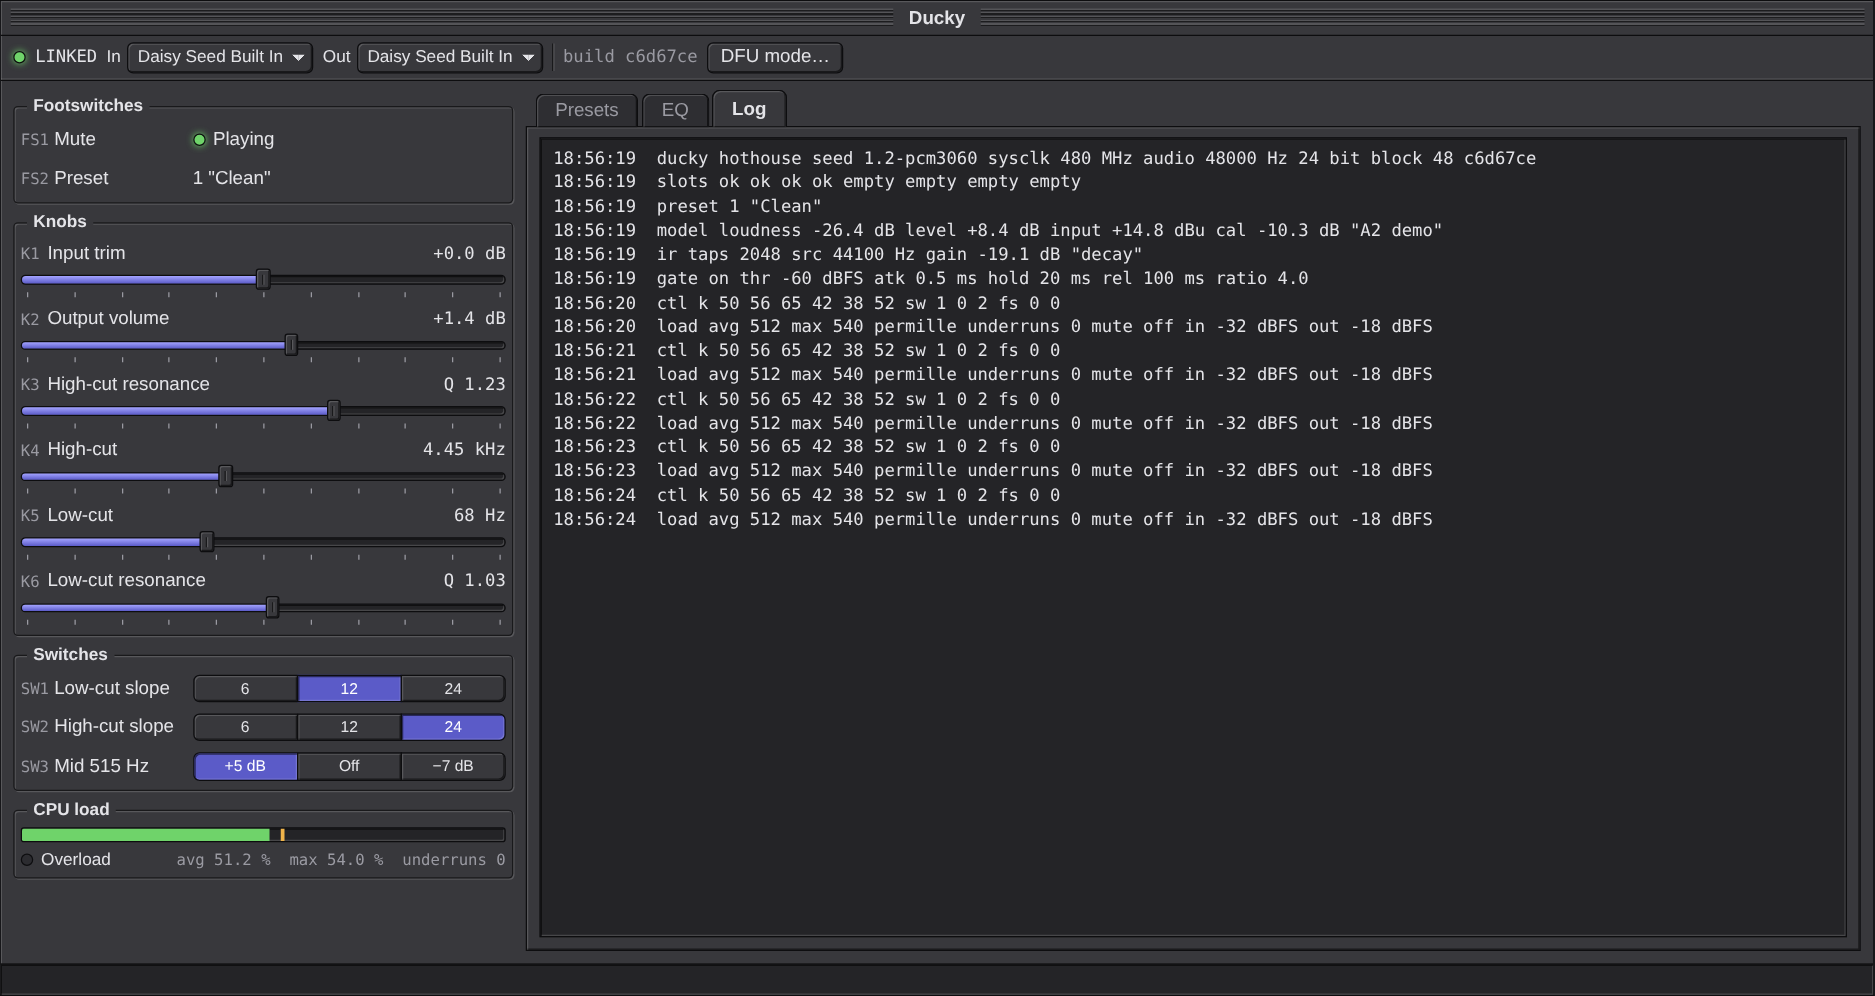
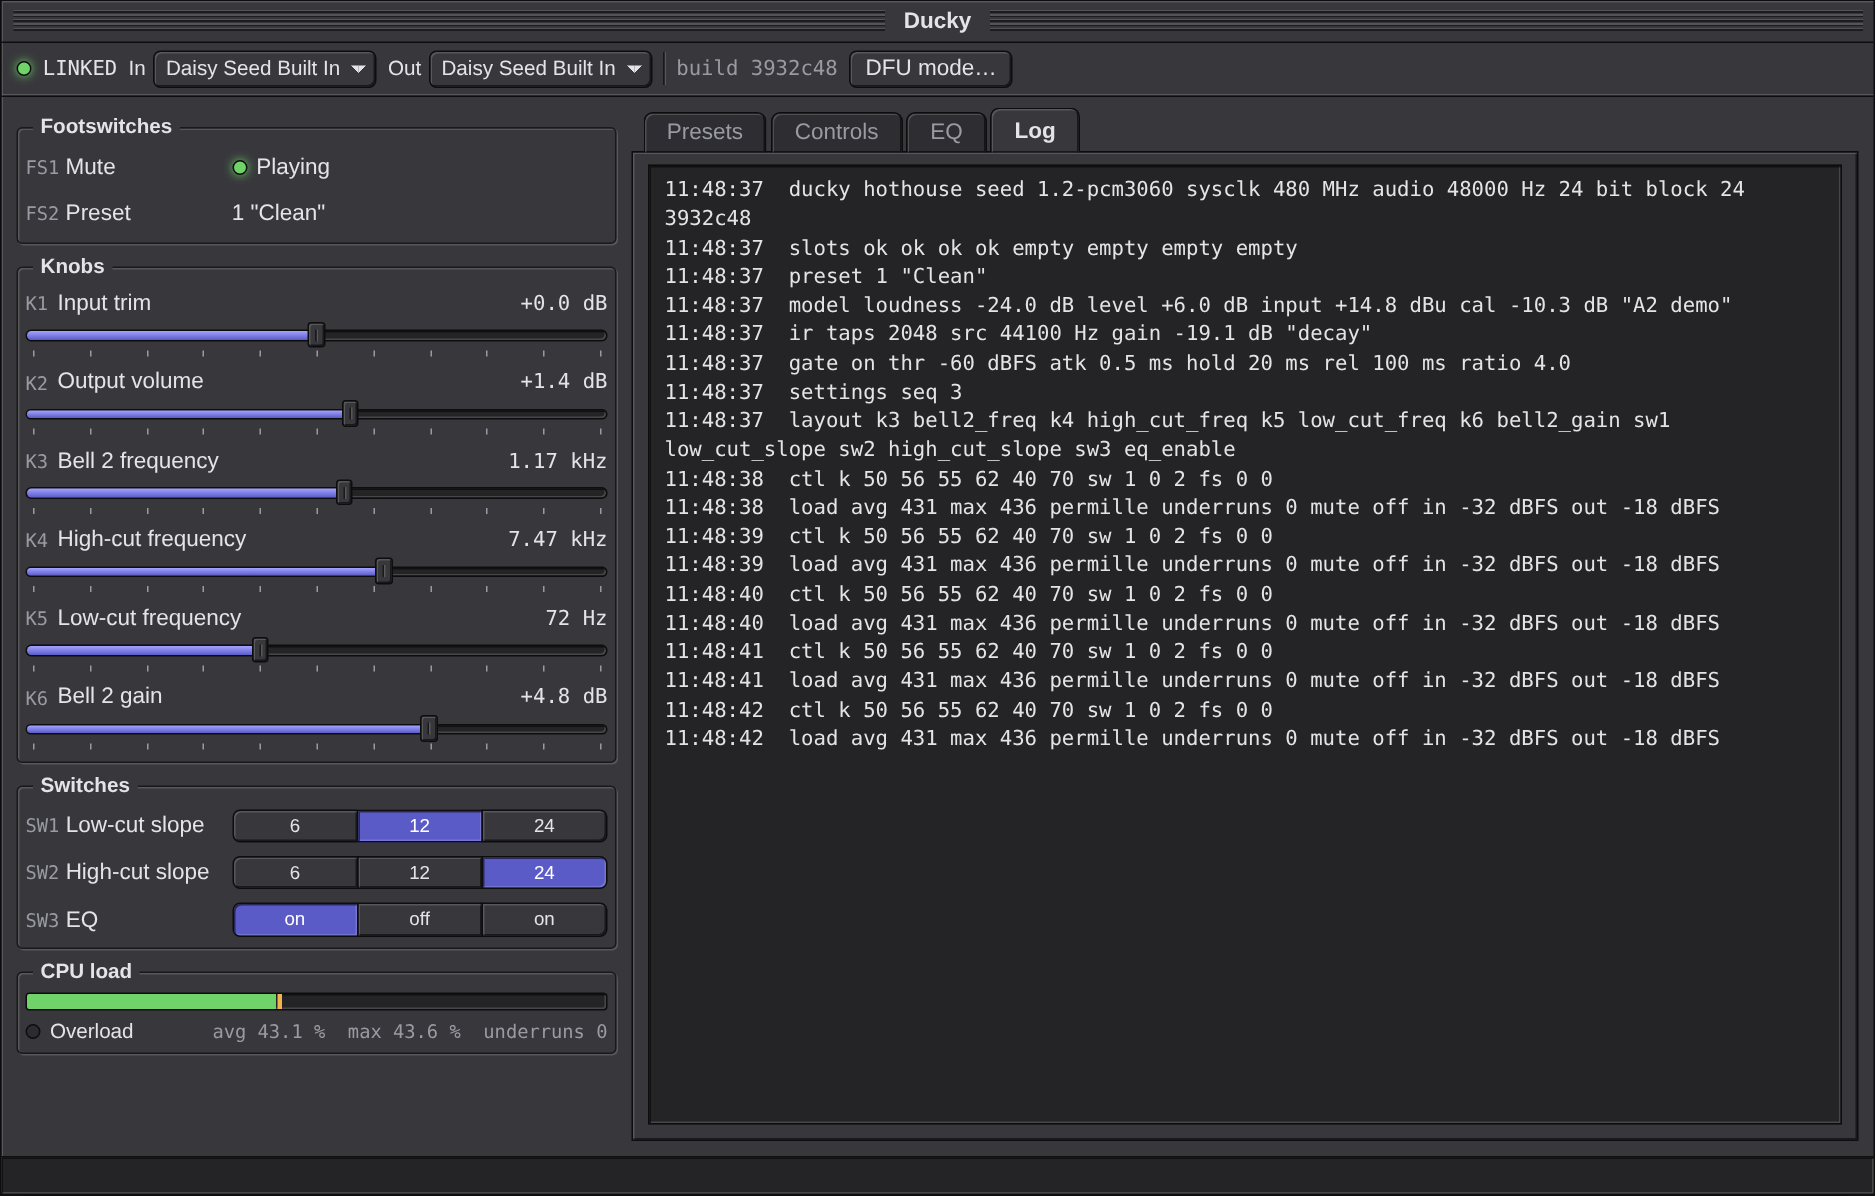
docs: editor screenshots retaken for M10, CPU figures current

diff --git a/docs/ROADMAP.md b/docs/ROADMAP.md
@@ -8,7 +8,7 @@ A living plan. Milestones are done in order; any of them may be revised, split, 
 |---|---|
 | Model format | NAM A2 `.nam` (`SlimmableContainer`, 48 kHz). Only the A2-Lite submodel (`max_value` 0.5) runs. A1 models and A2-Full are rejected. Format, weight order and forward pass: `docs/NAM_FORMAT.md`. |
 | Model shape | A2-Lite is fixed at compile time: 23 layers, 3 channels, bottleneck 3, kernels 6 (layers 15–16: 15), dilations `1 3 7 17 41 101 239 ×2, 1 13, 1 3 7 17 41 101 239`, LeakyReLU 0.01, no gating, FiLM, or groups. The head is a convolution with kernel 16, then `head_scale`. The editor rejects any other shape. Each stored model carries a shape descriptor, and the firmware checks it. |
-| Sample rate / block size | 48 kHz and 24 samples (0.5 ms), for 1 ms less latency than the original 48. No resampling. Being playtested: the bench chain with an IR is at 59.8 % (`docs/FILTERS.md` "Measured"). |
+| Sample rate / block size | 48 kHz and 24 samples (0.5 ms), for 1 ms less latency than the original 48. No resampling. Being playtested: the bench chain with an IR, the gate and M10's EQ at its worst is at 62.7 % (`docs/FILTERS.md` "Measured"). |
 | CPU ceiling | The pedal's load stays under 850 permille of the block period; the bench's chain gate checks it (`docs/FIRMWARE.md` "Bench"). The rest is for what the load meter does not see: libDaisy's audio interrupt and its sample conversion, and the main loop (USB, the link, slot writes). The bench times the DSP alone, about 10 permille under the live meter. The model keeps its own M3 gate (450 permille). Until the 24-sample blocks the chain gate was 550. |
 | Input gain (Knob 1) | Relative trim of ±12 dB around the model's input calibration at noon (M4): NeuralAmpModelerPlugin's `+4.5 dBu − input_level_dbu`, where +4.5 dBu is the level at the input jack that reaches 0 dBFS (from the datasheets, not measured). A model without `input_level_dbu` is assumed captured at +12 dBu. |
 | Output (Knob 2) | Off … +12 dB, unity at noon. Each preset's output is level-matched using the A2-Lite submodel's own `metadata.loudness`. The top-level `loudness` is A2-Full's, and the two differ by about 0.1 dB. `loudness` is measured at the capture level, so after the input calibration a clean model plays a little quieter than a driven one (M4: about 1.8 dB). |
@@ -208,7 +208,8 @@ Replace the M5 EQ (cuts and the 515 Hz mid) with low-cut → three bells → hig
 - **Verified (host):** `tests/eq_test.cpp`: the model's laws and setting A's table; the stage within ±0.05 dB of the model over 49 settings at 61 points (worst 0.0039 dB); cut/boost symmetry; bit-exact identity (defaults, code 8192, a bell returned to 0 dB, `eq_enable` off); no click on any parameter jumping between its ends; bit-identical output for blocks of 1, 6, 8, 24 and 48; bounded under random changes. `tests/filters_test.cpp` (the cuts through `Control`/`Run`), `params_test.cpp`, `settings_test.cpp` (version 1 refused, nothing assigned by default), `param_store_test.cpp`, `link_test.cpp`; `editor/src/eqModel.test.ts` (setting A), `link/params.test.ts`, `link/protocol.test.ts` (the 15-byte PARAM, the 16-code VALUES, `docs/MIDI.md`'s table).
 - **Measured (Seed 1.2):** bench EQ worst case (every bell gliding, slope fades) 15,564 cycles average, 65.0 permille at most (the M5 EQ: 36.2); chain with an IR and the gate 626.9 permille against 850. Live without an IR: load avg 415 at the EQ's defaults, 423 with both cuts and the three bells on, 381 with the EQ off; 0 underruns.
 - **On the pedal:** the v1 record was ignored (`settings factory`, every control `none`); `pedal.ts param list` showed 16 rows (`bell1_gain` `+0.0 dB`, `low_cut_freq` `Off`); `param set bell2_gain 9` and `param get` read `+9.0 dB`; `param assign k3 bell2_freq`, SAVE and a restart (a DFU reflash) came back with `settings seq 1`, K3 on `bell2_freq` and `bell2_gain` at `+9.0 dB`. In the editor (Chromium, Web MIDI): dragging handle 2 up and right gave `+12.0 dB at 2.62 kHz` and the pedal's VALUES held it; two wheel notches took its Q to 1.26; a double-click set 0 dB; the low-cut dragged right read `12 dB/oct at 99 Hz` and dragged past the left edge `Off`; the keys stepped bell 1; EQ off dashed the curve, labelled it `EQ OFF` and dimmed 15 rows.
-- **Not yet checked (needs ears on the pedal):** the boosts and sweeps by ear, and zipper noise while a knob sweeps a bell's frequency; the editor's screenshots in `docs/EDITOR.md` are still M9's.
+- **Not yet checked (needs ears on the pedal):** the boosts and sweeps by ear, and zipper noise while a knob sweeps a bell's frequency.
+- **Screenshots:** `docs/EDITOR.md`'s five retaken at M10 from a simulated pedal (a fake Web MIDI answering the M10 protocol with the A2 fixture slots), in managed Chromium at 1250 px and 1.5× scale.
 - **Docs:** `docs/EQ.md` (new); `docs/FILTERS.md` (the cuts only, the M10 cost); `docs/FIRMWARE.md` ("Settings record" version 2, the source layout, the bench); `docs/EDITOR.md` (Controls and EQ tabs); `docs/MIDI.md` (generated); `CLAUDE.md`.
 
 ### M11: Optical compressor (OTC-201)
@@ -266,6 +267,6 @@ A global mode for a mono effects loop: R Out is the send, R In the return, and t
 
 ## Risks
 
-- **CPU:** the generic NAM core is built on Eigen, which has no float SIMD on Cortex-M7, so it is assumed too slow. The custom kernel passed the M3 gate at 35 % for the model alone. With the IR and the EQ (M5) the bench chain was at 49.6 % (gate 55 %) and the pedal at 50.1 % live with 48-sample blocks; at 24-sample blocks the chain is at 59.8 % against the 85 % ceiling, mostly because the IR convolver's share nearly doubles (11 % to 19 %), and the pedal without an IR at 41.5 % live. M6's preset switching and M7's slot writes add no steady load (both run in the main loop; the callback is parked for a load and reads no QSPI during a write). A convolver with short first partitions and longer later ones would bring the IR back near 11 % at 24 samples. The kernel's speed depends on GCC keeping the instruction order it was written in (`docs/M7_PERFORMANCE.md`), so a toolchain or flag change needs a bench run.
+- **CPU:** the generic NAM core is built on Eigen, which has no float SIMD on Cortex-M7, so it is assumed too slow. The custom kernel passed the M3 gate at 35 % for the model alone. With the IR and the EQ (M5) the bench chain was at 49.6 % (gate 55 %) and the pedal at 50.1 % live with 48-sample blocks; at 24-sample blocks the chain is at 59.8 % against the 85 % ceiling, mostly because the IR convolver's share nearly doubles (11 % to 19 %), and the pedal without an IR at 41.5 % live. M10's EQ at its worst takes the chain to 62.7 % (6.5 % for the EQ, every bell gliding). M6's preset switching and M7's slot writes add no steady load (both run in the main loop; the callback is parked for a load and reads no QSPI during a write). A convolver with short first partitions and longer later ones would bring the IR back near 11 % at 24 samples. The kernel's speed depends on GCC keeping the instruction order it was written in (`docs/M7_PERFORMANCE.md`), so a toolchain or flag change needs a bench run.
 - **Locked model shape:** if NAM revises A2-Lite, the firmware needs an update. The shape descriptor plus the editor's check keep unsupported models from playing incorrectly.
 - **QSPI coexistence:** another firmware's image could grow into the preset region. The largest sibling image is about 2.2 MB, and the presets start above 4 MB.

diff --git a/docs/EDITOR.md b/docs/EDITOR.md
@@ -82,8 +82,6 @@ The EQ (`docs/EQ.md`: low-cut, bells 1–3, high-cut) set directly, as bad_tape'
 - **Rows:** a Stage box with `eq_enable`, then a box per band (Low-cut, Bell 1–3, High-cut) with its parameters: the controls each is on, a slider (continuous) or a button group (a choice), and its value. A change is sent at once as SET (`editor/src/useParamEdits.ts`: coalesced to the latest value per parameter, one request in flight) and heard at once. It holds every control on that parameter; a parameter on no control keeps the value. The sliders work as the noise gate's; double-click resets to the parameter's default. A resonance is dimmed when it has no effect, and every row but `eq_enable` while the EQ is off.
 - **Save** as on the Controls tab.
 
-The Controls tab's screenshot above and this tab's below are from before M10 (the cuts, the 515 Hz mid, the Parameters box on the Controls tab) and are not yet retaken.
-
 ![EQ tab](images/editor/eq.png)
 
 ## Log tab
